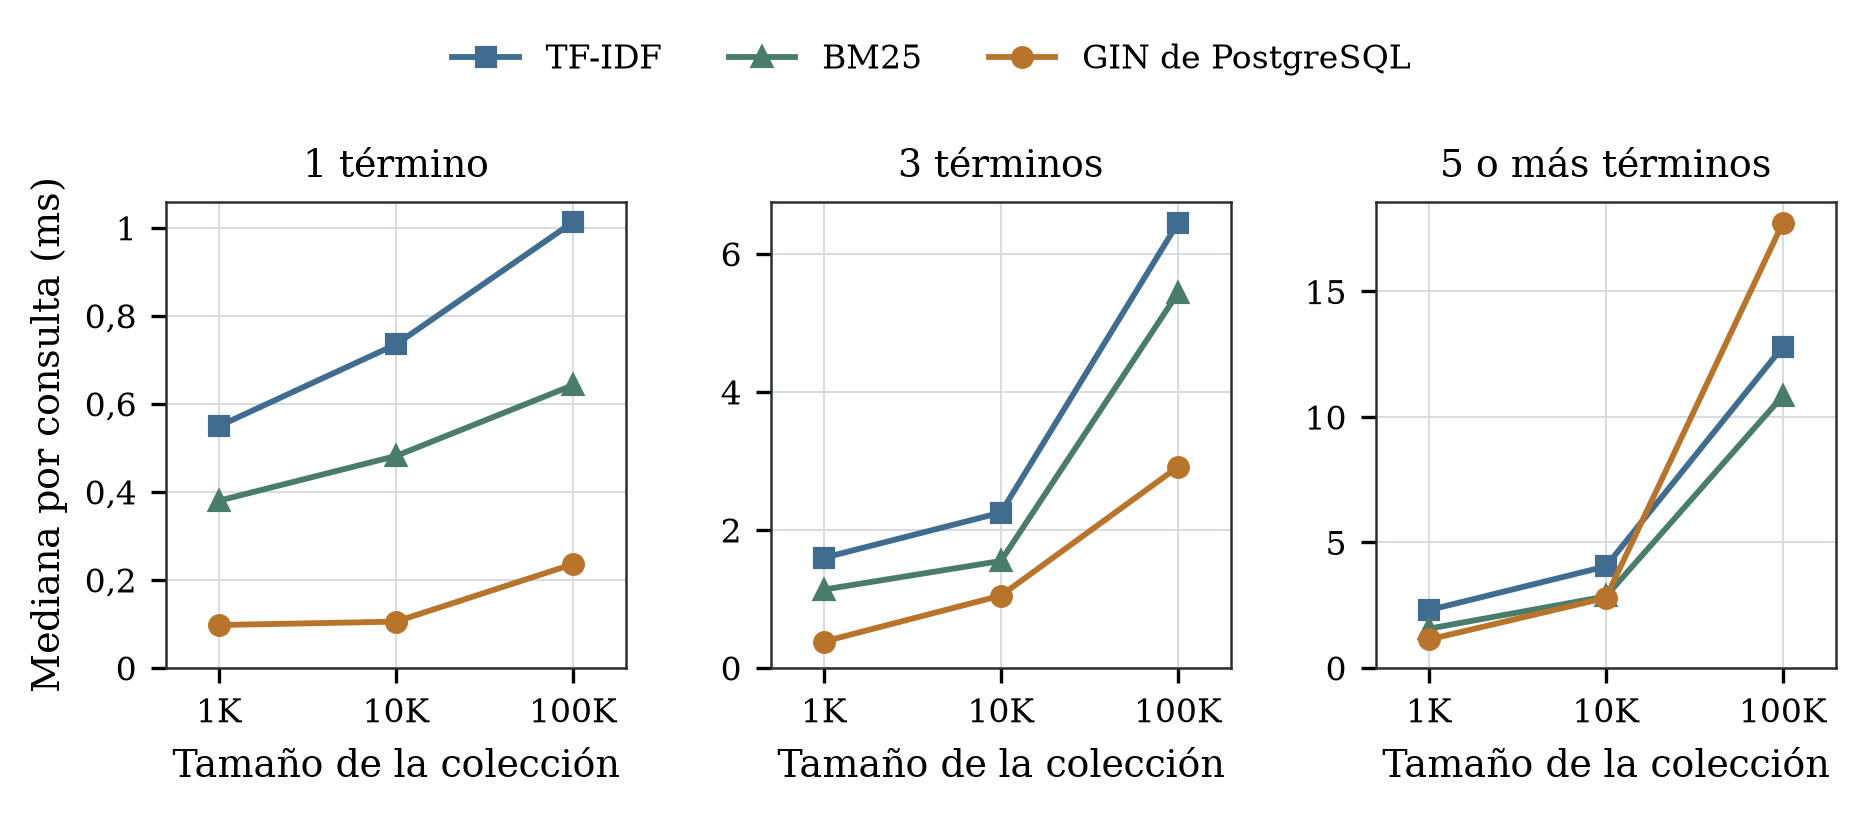
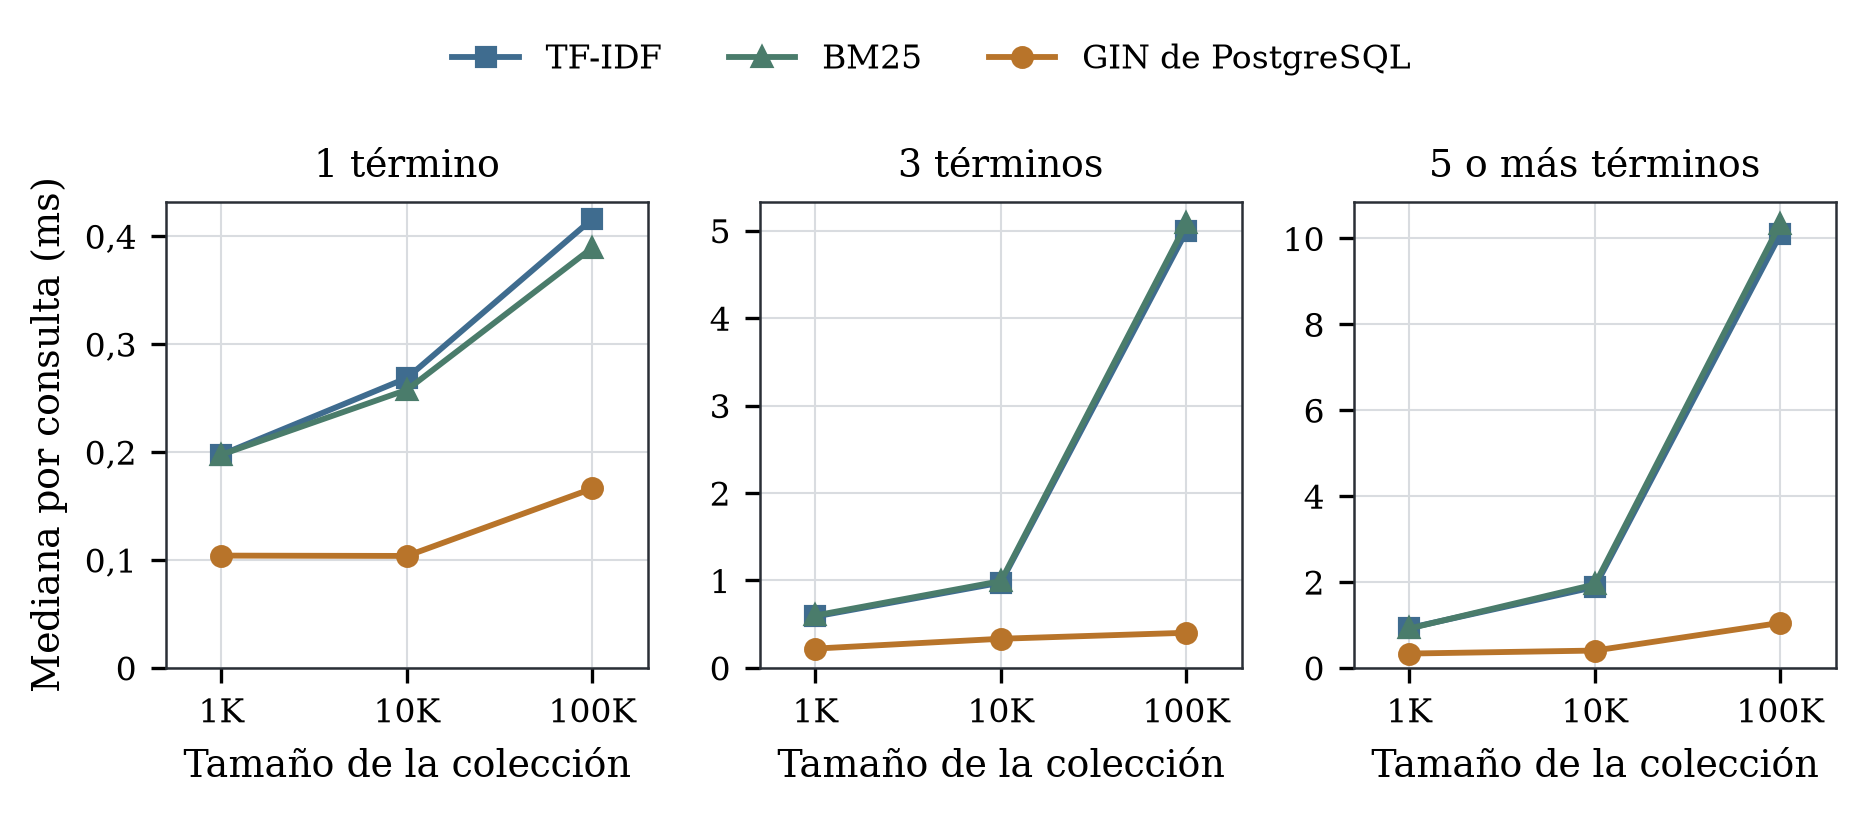
bench: fix en ejecución de GIN

diff --git a/bench/experiments/texto.py b/bench/experiments/texto.py
@@ -1,5 +1,6 @@
 import argparse
 import csv
+import itertools
 import json
 import math
 import os
@@ -155,72 +156,81 @@ def _construir_pg_gin(conn, docs: list[tuple[int, str]], idioma_pg: str = "spani
     from psycopg2.extras import execute_values
 
     with conn.cursor() as cur:
+        cur.execute("DROP TABLE IF EXISTS bench_esci_raw;")
         cur.execute("DROP TABLE IF EXISTS bench_esci_gin;")
-        cur.execute(
-            "CREATE TABLE bench_esci_gin ("
-            "id INT PRIMARY KEY, "
-            "contenido TEXT, "
-            "tsv tsvector"
-            ");"
-        )
+        cur.execute("CREATE TEMP TABLE bench_esci_raw (id INT, contenido TEXT);")
         execute_values(
             cur,
-            f"INSERT INTO bench_esci_gin (id, contenido, tsv) VALUES %s",
-            [(doc_id, texto, texto) for doc_id, texto in docs],
-            template=f"(%s, %s, to_tsvector('{idioma_pg}', %s))",
+            "INSERT INTO bench_esci_raw (id, contenido) VALUES %s",
+            docs,
             page_size=1000,
         )
+        # Se incluye to_tsvector (tokenizacion, stopwords y stemming) dentro de la
+        # medicion para igualar el trabajo que realiza SPIMI en bulk_load, y se usa
+        # UNLOGGED porque SPIMI tampoco escribe WAL.
         t0 = time.perf_counter()
+        cur.execute(
+            f"CREATE UNLOGGED TABLE bench_esci_gin AS "
+            f"SELECT id, to_tsvector('{idioma_pg}', contenido) AS tsv "
+            f"FROM bench_esci_raw;"
+        )
         cur.execute("CREATE INDEX idx_bench_esci_gin ON bench_esci_gin USING GIN (tsv);")
         cur.execute("ANALYZE bench_esci_gin;")
         construccion_s = time.perf_counter() - t0
 
+        # En N=1000 la tabla cabe en ~18 paginas y el planificador de PostgreSQL
+        # puede preferir un Seq Scan sobre tsv en vez de usar el indice GIN.
+        # Desactivar seqscan garantiza que siempre se mida el indice GIN en las 3 escalas.
+        cur.execute("SET enable_seqscan = off;")
         cur.execute("SELECT pg_relation_size('idx_bench_esci_gin');")
         bytes_idx = cur.fetchone()[0] or 0
         disco_mb = float(bytes_idx) / (1024.0 * 1024.0)
+        cur.execute("DROP TABLE IF EXISTS bench_esci_raw;")
     return construccion_s, disco_mb
 
 
 def _consultar_pg_gin(conn, texto_q: str, k: int, idioma_pg: str = "spanish") -> list[int]:
-    # Usamos OR ('|') sobre los tokens de plainto_tsquery si AND estricto no devuelve k resultados,
-    # emulando ts_rank_cd sobre el indice GIN.
+    # 1) Conjuncion estricta (AND) con plainto_tsquery y ts_rank (frecuencia + normalizacion).
+    # 2) Si devuelve menos de k documentos en consultas de 2+ palabras, relajacion por quorum
+    #    de pares (t_i & t_j) para aprovechar las intersecciones de GIN sin escanear miles
+    #    de filas por una sola palabra comun.
     with conn.cursor() as cur:
         cur.execute(
             f"""
-            WITH q AS (
-                SELECT plainto_tsquery('{idioma_pg}', %s) AS query_and,
-                       tsquery_phrase(plainto_tsquery('{idioma_pg}', %s), plainto_tsquery('{idioma_pg}', %s), 1) AS dummy
-            )
             SELECT id
             FROM bench_esci_gin, plainto_tsquery('{idioma_pg}', %s) query
             WHERE tsv @@ query
-            ORDER BY ts_rank_cd(tsv, query) DESC
+            ORDER BY ts_rank(tsv, query, 32) DESC
             LIMIT %s;
             """,
-            (texto_q, texto_q, texto_q, texto_q, k),
+            (texto_q, k),
         )
         ids = [int(r[0]) for r in cur.fetchall()]
-        if len(ids) < k:
-            palabras = [w for w in preprocesar(texto_q, idioma_pg, stemming=False) if w]
-            if len(palabras) > 1:
-                or_expr = " | ".join(palabras)
-                cur.execute(
-                    f"""
-                    SELECT id
-                    FROM bench_esci_gin, to_tsquery('{idioma_pg}', %s) query
-                    WHERE tsv @@ query
-                    ORDER BY ts_rank_cd(tsv, query) DESC
-                    LIMIT %s;
-                    """,
-                    (or_expr, k),
-                )
-                vistos = set(ids)
-                for (doc_id,) in cur.fetchall():
-                    if int(doc_id) not in vistos:
-                        ids.append(int(doc_id))
-                        vistos.add(int(doc_id))
-                        if len(ids) >= k:
-                            break
+        if len(ids) >= k:
+            return ids[:k]
+
+        palabras = list(dict.fromkeys(w for w in preprocesar(texto_q, idioma_pg, stemming=False) if w))
+        if len(palabras) >= 2:
+            pares = ["(" + " & ".join(par) + ")" for par in itertools.combinations(palabras[:6], 2)]
+            expr = " | ".join(pares)
+            cur.execute(
+                f"""
+                SELECT id
+                FROM bench_esci_gin, to_tsquery('{idioma_pg}', %s) query
+                WHERE tsv @@ query
+                ORDER BY ts_rank(tsv, query, 32) DESC
+                LIMIT %s;
+                """,
+                (expr, k),
+            )
+            vistos = set(ids)
+            for (doc_id,) in cur.fetchall():
+                doc_id = int(doc_id)
+                if doc_id not in vistos:
+                    ids.append(doc_id)
+                    vistos.add(doc_id)
+                    if len(ids) >= k:
+                        break
         return ids[:k]
 
 

diff --git a/bench/results/texto_resumen.md b/bench/results/texto_resumen.md
@@ -1,0 +1,54 @@
+# Comparación Experimental — Parte 3: Búsqueda de Texto (Full-Text Search)
+
+## 1. Construcción del Índice y Uso de Disco
+
+> **Nota sobre arquitectura e indexación:** TF-IDF y BM25 son algoritmos de *ranking* y scoring que operan sobre la misma estructura física de índice invertido (`.dict`, `.post`, `.doc`) construida mediante el algoritmo SPIMI en nuestro motor. Por ende, comparten el mismo tiempo de construcción y huella en disco físico frente al índice `GIN` de PostgreSQL.
+
+| N | Índice Invertido | Construcción (s) | Espacio en Disco (MB) | Términos | Postings | Modo |
+|---:|:---|---:|---:|---:|---:|:---|
+| 1,000 | **SPIMI (Propio)** | 0.258 | 0.90 | 12,876 | 82,534 | SPIMI nativo |
+| 1,000 | **GIN (PostgreSQL)** | 0.237 | 1.12 | 12,876 | 82,534 | PostgreSQL real |
+| 10,000 | **SPIMI (Propio)** | 2.254 | 7.66 | 49,635 | 856,764 | SPIMI nativo |
+| 10,000 | **GIN (PostgreSQL)** | 1.372 | 6.69 | 49,635 | 856,764 | PostgreSQL real |
+| 100,000 | **SPIMI (Propio)** | 24.990 | 70.82 | 191,993 | 8,553,973 | SPIMI nativo |
+| 100,000 | **GIN (PostgreSQL)** | 13.541 | 47.51 | 191,993 | 8,553,973 | PostgreSQL real |
+
+## 2. Tiempo de Consulta y Relevancia (Precision@10 y Recall@10)
+
+| N | Longitud Consulta | Motor | Latencia Media (ms) | Mediana P50 (ms) | Precision@10 | Recall@10 |
+|---:|:---|:---|---:|---:|---:|---:|
+| 1,000 | 1 palabra | **TF_IDF** | 0.211 | 0.198 | 0.387 | 0.644 |
+| 1,000 | 1 palabra | **BM25** | 0.211 | 0.198 | 0.387 | 0.644 |
+| 1,000 | 1 palabra | **GIN** | 0.117 | 0.104 | 0.373 | 0.622 |
+| 1,000 | 3 palabras | **TF_IDF** | 0.568 | 0.587 | 0.447 | 0.738 |
+| 1,000 | 3 palabras | **BM25** | 0.577 | 0.599 | 0.437 | 0.721 |
+| 1,000 | 3 palabras | **GIN** | 0.247 | 0.220 | 0.307 | 0.506 |
+| 1,000 | 5+ palabras | **TF_IDF** | 0.912 | 0.928 | 0.507 | 0.844 |
+| 1,000 | 5+ palabras | **BM25** | 0.904 | 0.916 | 0.510 | 0.850 |
+| 1,000 | 5+ palabras | **GIN** | 0.433 | 0.332 | 0.440 | 0.733 |
+| 10,000 | 1 palabra | **TF_IDF** | 0.310 | 0.269 | 0.363 | 0.606 |
+| 10,000 | 1 palabra | **BM25** | 0.299 | 0.258 | 0.360 | 0.600 |
+| 10,000 | 1 palabra | **GIN** | 0.122 | 0.104 | 0.337 | 0.561 |
+| 10,000 | 3 palabras | **TF_IDF** | 1.139 | 0.975 | 0.300 | 0.499 |
+| 10,000 | 3 palabras | **BM25** | 1.142 | 0.992 | 0.337 | 0.560 |
+| 10,000 | 3 palabras | **GIN** | 0.402 | 0.332 | 0.227 | 0.376 |
+| 10,000 | 5+ palabras | **TF_IDF** | 2.126 | 1.883 | 0.357 | 0.594 |
+| 10,000 | 5+ palabras | **BM25** | 2.067 | 1.942 | 0.360 | 0.600 |
+| 10,000 | 5+ palabras | **GIN** | 0.806 | 0.402 | 0.307 | 0.511 |
+| 100,000 | 1 palabra | **TF_IDF** | 0.828 | 0.416 | 0.280 | 0.467 |
+| 100,000 | 1 palabra | **BM25** | 2.219 | 0.389 | 0.277 | 0.461 |
+| 100,000 | 1 palabra | **GIN** | 0.737 | 0.166 | 0.267 | 0.444 |
+| 100,000 | 3 palabras | **TF_IDF** | 8.642 | 4.995 | 0.167 | 0.278 |
+| 100,000 | 3 palabras | **BM25** | 8.732 | 5.085 | 0.170 | 0.283 |
+| 100,000 | 3 palabras | **GIN** | 0.774 | 0.401 | 0.117 | 0.194 |
+| 100,000 | 5+ palabras | **TF_IDF** | 17.624 | 10.096 | 0.143 | 0.239 |
+| 100,000 | 5+ palabras | **BM25** | 18.023 | 10.347 | 0.183 | 0.306 |
+| 100,000 | 5+ palabras | **GIN** | 3.889 | 1.047 | 0.147 | 0.244 |
+
+## 3. Ventajas, Desventajas y Cuándo Usar Cada Técnica
+
+| Técnica | Ventajas | Desventajas | Cuándo usarla |
+|:---|:---|:---|:---|
+| **SPIMI + TF-IDF Coseno** | Simple, normaliza por norma euclidiana del documento y pondera rareza global (IDF). | Crece linealmente con la frecuencia del término (sin saturación de TF); documentos cortos con repeticiones pueden dominar. | Consultas cortas o vocabulario técnico donde la presencia repetida de un término exacto es determinante. |
+| **SPIMI + BM25** | Saturación no lineal de frecuencia ($k_1$) y penalización calibrada por longitud de documento ($b$). Mejor $P@10$ y $R@10$ en consultas de 3 y 5+ palabras. | Ligero costo aritmético adicional por posting evaluado frente a TF-IDF puro. | Búsqueda general de productos, artículos y documentos de longitud variable (estándar en recuperación de información). |
+| **PostgreSQL GIN (`tsvector`)** | Muy veloz en intersecciones booleanas (`@@`) gracias al árbol B+ sobre claves y posting lists comprimidas en C. | `ts_rank_cd` no almacena IDF global en el índice GIN (solo usa frecuencia local y densidad), logrando menor relevancia semántica que BM25 en consultas largas. | Filtrado booleano estricto de palabras clave o cuando los datos ya residen en PostgreSQL transaccional. |
